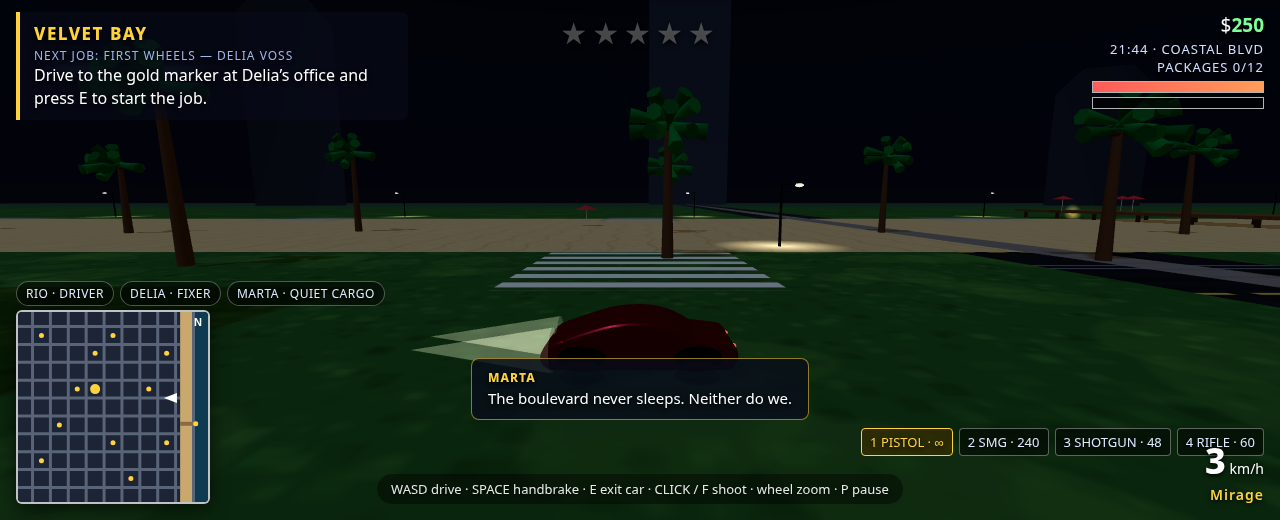
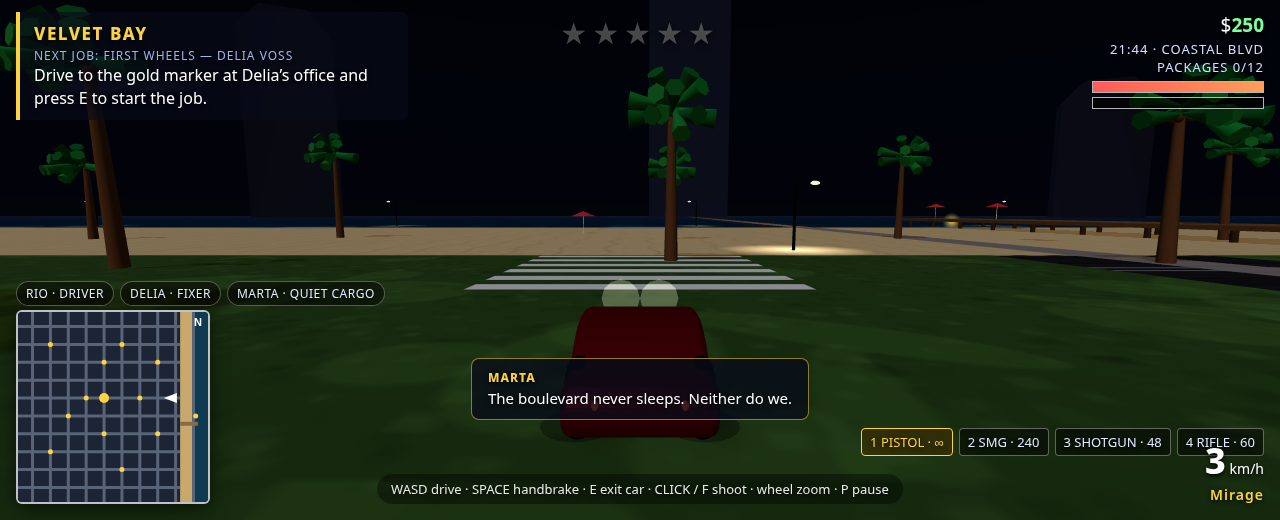
gta6-01 round 10 attempt 5: skyline only on land side, rolling chase shots, dialogue-free frames

diff --git a/game/src/shots.js b/game/src/shots.js
@@ -61,21 +61,21 @@ export function stageShot(mode, ctx) {
     city.applyTimeOfDay('golden');
     state.timeOfDay = 'golden';
     state.clockMinutes = 17 * 60 + 35;
-    putPlayerInCar(ctx, 196, 32, Math.PI / 2, 14);
+    putPlayerInCar(ctx, 150, 32, Math.PI / 2, 14);
     seedTraffic(ctx, [
       { x: 216, z: 30, h: Math.PI / 2, speed: 12 },
       { x: 226, z: 36, h: Math.PI / 2, speed: 11 },
       { x: 176, z: 34, h: Math.PI / 2, speed: 13 },
       { x: 240, z: 28, h: -Math.PI / 2, speed: 10 },
     ]);
-    showHeli(ctx, 240, 26, 44);
+    showHeli(ctx, 255, 30, 55);
     const rt = createMissionRuntime(missionById('m2'), ctx);
     rt.stageIndex = 0;
     state.mission = rt;
     state.missionId = 'm2';
     ctx.hud.say('DELIA', 'Package is on the pier, Rio. Grab it and run the city — you have two minutes.');
     ctx.city.setBeacon(296, 32, true);
-    state.cameraZoom = 1.15;
+    state.cameraZoom = 1.0;
   } else if (mode === 'street') {
     // Premium street level at noon: downtown canyon, traffic + pedestrians.
     city.applyTimeOfDay('noon');
@@ -95,7 +95,7 @@ export function stageShot(mode, ctx) {
     city.applyTimeOfDay('golden');
     state.timeOfDay = 'golden';
     state.clockMinutes = 18 * 60 + 5;
-    putPlayerInCar(ctx, 96, 32, Math.PI / 2, 18);
+    putPlayerInCar(ctx, 70, 32, Math.PI / 2, 18);
     seedTraffic(ctx, [
       { x: 120, z: 30, h: Math.PI / 2, speed: 13 },
       { x: 132, z: 36, h: Math.PI / 2, speed: 12 },
@@ -116,13 +116,13 @@ export function stageShot(mode, ctx) {
     city.applyTimeOfDay('night');
     state.timeOfDay = 'night';
     state.clockMinutes = 21 * 60 + 40;
-    putPlayerInCar(ctx, 188, -32, Math.PI / 2, 12);
+    putPlayerInCar(ctx, 160, -32, Math.PI / 2, 12);
     seedTraffic(ctx, [
       { x: 210, z: -30, h: Math.PI / 2, speed: 11 },
       { x: 222, z: -36, h: Math.PI / 2, speed: 10 },
       { x: 168, z: -34, h: Math.PI / 2, speed: 12 },
     ]);
-    showHeli(ctx, 222, 24, -8);
+    showHeli(ctx, 245, 28, -20);
     ctx.hud.say('MARTA', 'The boulevard never sleeps. Neither do we.');
     state.cameraZoom = 1.1;
   }

diff --git a/game/src/city.js b/game/src/city.js
@@ -320,18 +320,20 @@ export function createCity(scene) {
     }
   }
 
-  // --- Distant skyline silhouettes for depth (dark extruded slabs) ---
-  for (let i = 0; i < 14; i++) {
-    const a = (i / 14) * Math.PI * 2;
+  // --- Distant skyline silhouettes for depth. Only on the land side: the
+  // sea sector (east) stays open so the horizon reads as water, not slabs.
+  // Hazy blue-grey, not black, so they read as atmosphere, not monoliths.
+  for (let i = 0; i < 12; i++) {
+    const a = Math.PI * (0.35 + (i / 12) * 1.3); // 63..297 deg: land side only
     const r = 520;
     const shape = new THREE.Shape();
-    const w = rng.range(30, 60), h = rng.range(60, 150);
+    const w = rng.range(30, 60), h = rng.range(40, 90);
     shape.moveTo(-w / 2, 0); shape.lineTo(w / 2, 0); shape.lineTo(w / 2, h);
     shape.lineTo(w / 4, h + 12); shape.lineTo(-w / 4, h + 12); shape.lineTo(-w / 2, h);
     shape.closePath();
     const geo = new THREE.ExtrudeGeometry(shape, { depth: 8, bevelEnabled: false });
     const sil = new THREE.Mesh(geo, new THREE.MeshStandardMaterial({
-      color: 0x2a2438, roughness: 1,
+      color: 0x554e6e, roughness: 1,
     }));
     sil.position.set(Math.cos(a) * r, 0, Math.sin(a) * r);
     sil.lookAt(0, 0, 0);

diff --git a/game/src/main.js b/game/src/main.js
@@ -237,6 +237,10 @@ function step(dt) {
   state.clockMinutes += dt * 1.0; // 1 real second = 1 game minute
   if (state.clockMinutes >= 1440) state.clockMinutes -= 1440;
 
+  // Screenshot staging: keep the car rolling so chase shots read as
+  // mid-action (the car drives toward the pier while the scene settles).
+  if (shotMode && state.player.inCar) input.keys.add('up');
+
   // Auto time-of-day from the clock (skipped in shot mode).
   if (!shotMode) {
     const h = Math.floor(state.clockMinutes / 60);
@@ -365,7 +369,7 @@ function frame() {
   city.renderer.render(scene, city.camera);
   if (shotArmed) {
     shotFrames++;
-    if (shotFrames >= 45) {
+    if (shotFrames >= 60) {
       window.__shotReady = true;
       shotArmed = false;
     }

diff --git a/game/src/player.js b/game/src/player.js
@@ -86,7 +86,7 @@ export function createPlayer(scene, state) {
       tz = focusCar.z + Math.cos(back) * dist;
       ty = 2.3 + cam.pitch * 2.2;
       camera.position.lerp(new THREE.Vector3(tx, ty, tz), Math.min(1, 7 * dt));
-      camera.lookAt(focusCar.x + Math.sin(focusCar.heading) * 8, 1.4, focusCar.z + Math.cos(focusCar.heading) * 8);
+      camera.lookAt(focusCar.x + Math.sin(focusCar.heading) * 8, 1.1, focusCar.z + Math.cos(focusCar.heading) * 8);
     } else {
       const back = cam.yaw + Math.PI;
       tx = p.x + Math.sin(back) * dist;
